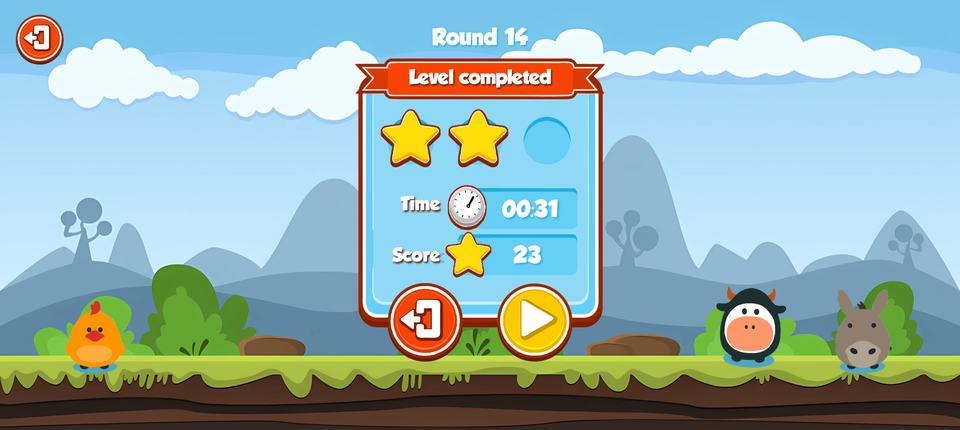
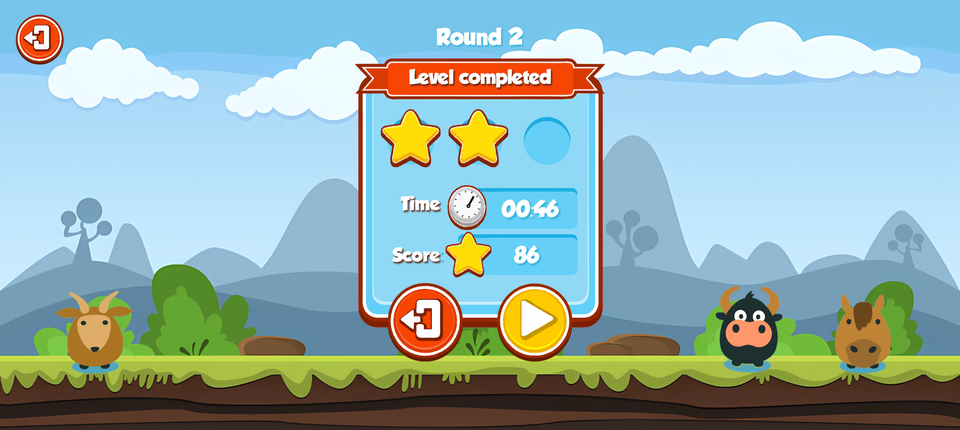
Version 1.4.0 (1012)
Claude-Session: https://claude.ai/code/session_01LstcXWc1YxpqeB5SU5SB8k

diff --git a/docs/release-notes/1.4.0.md b/docs/release-notes/1.4.0.md
@@ -1,0 +1,17 @@
+# 1.4.0 (versionCode 1012)
+
+The first upload since 2019 (1.3.0, versionCode 1011, was built but never uploaded), so the Play
+text describes the whole comeback.
+
+Play Console "What's new" (under 500 characters):
+
+```
+The game is back, bigger! Four worlds: Animals, Monsters, Emojis and the new Ocean, each with six roads of 100 rounds and stars to collect. Every fifth round is a surprise mini-game, seven in all. A friends album: every ten rounds a new friend joins, tap one to meet it by name. A parents' corner behind a hold-to-open gate. Speaks 21 languages, switchable in the settings. Works on phones and tablets. No ads, no internet, nothing collected.
+```
+
+Included since 1.3.0: twenty translations with a language picker and localised title art, the map
+as the hub with theme and difficulty pickers, progress per theme, roads of 100 rounds, five more
+mini-games (What changed?, Shadow match, Odd one out, Shopping list, Peek and find), the friends
+album with names and the rounds-to-meet popup, the parents' corner with privacy policy and reset,
+the Ocean world, right-to-left layouts, clean ribbon art, a theme picker that shows it scrolls.
+Data safety and privacy declarations are unchanged: progress stays on the device, no permissions.
